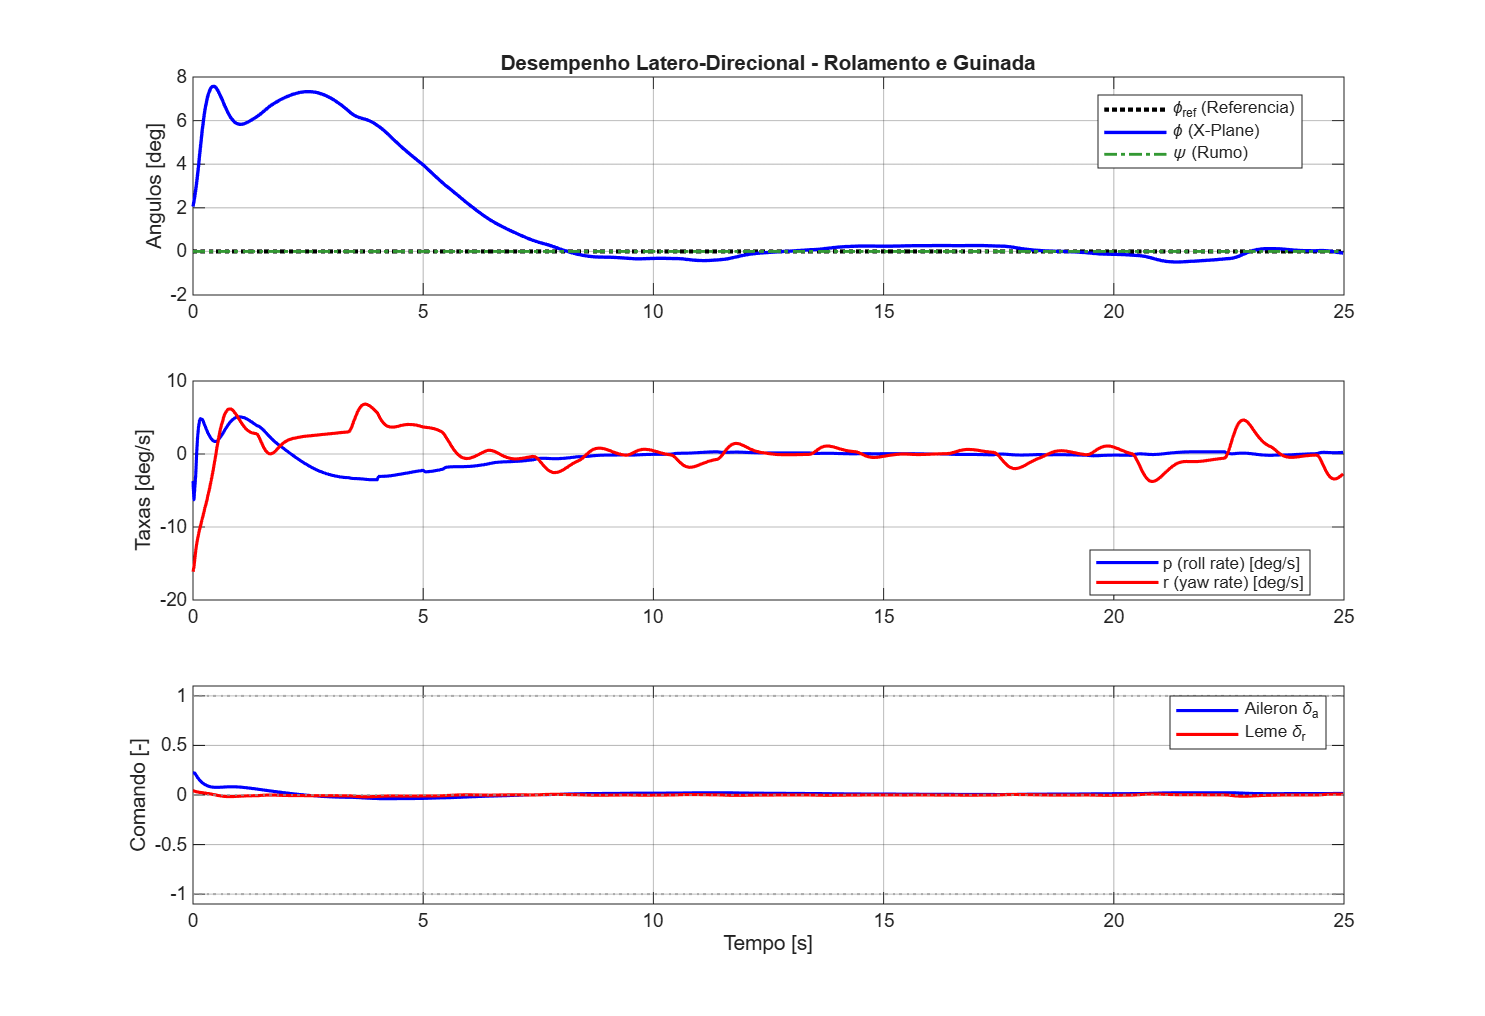
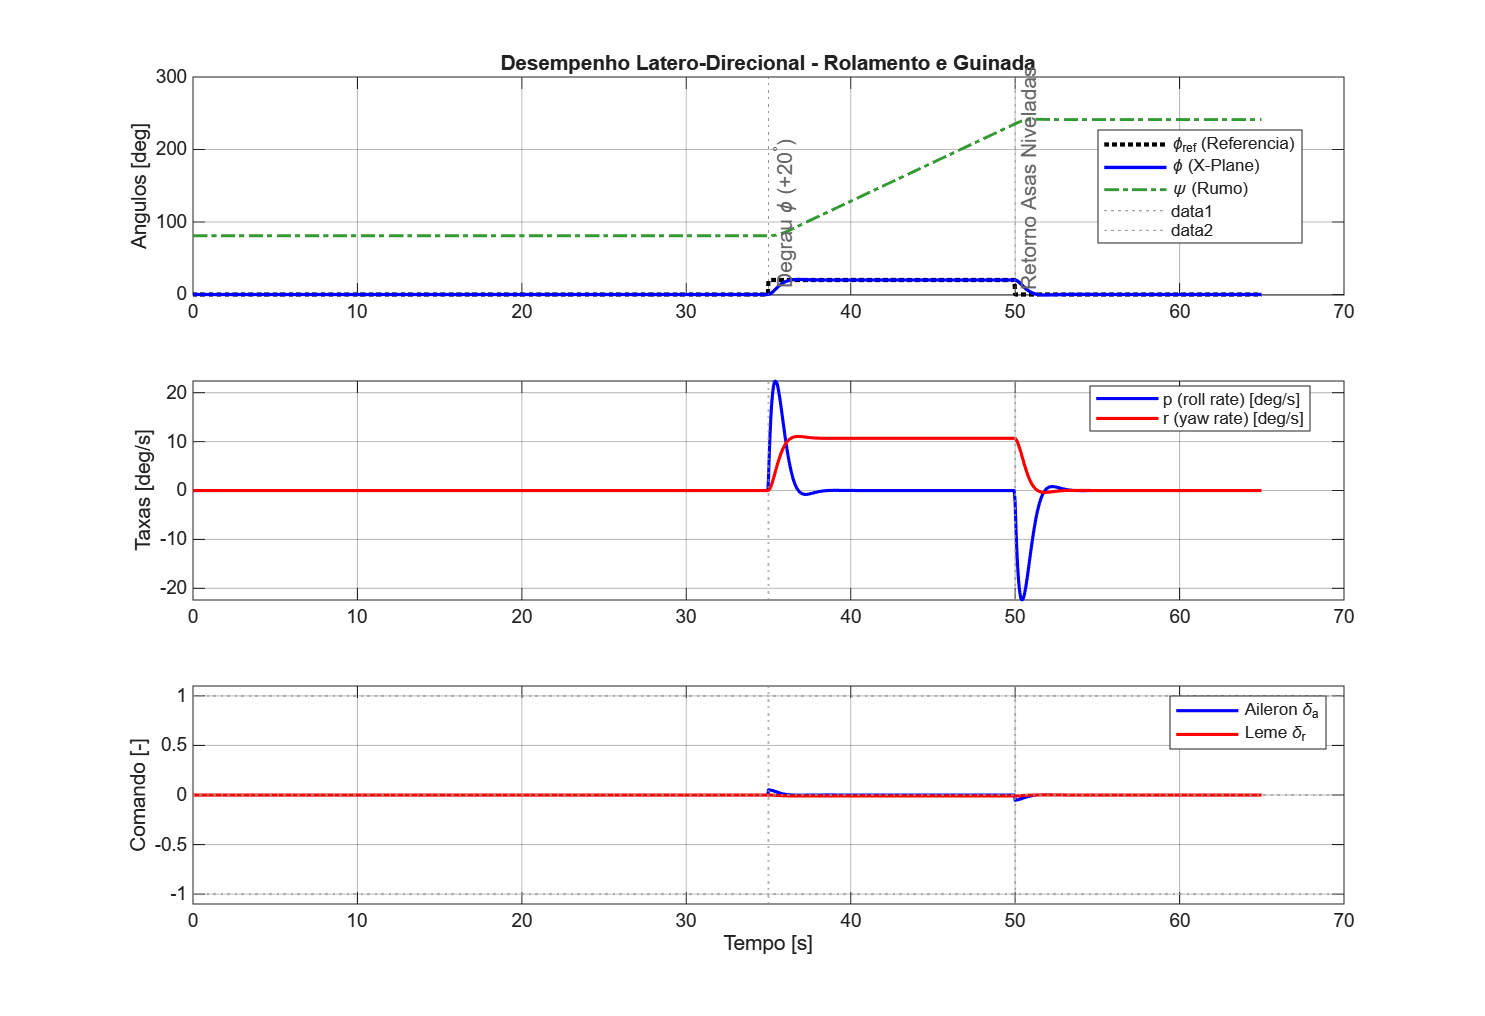
feat(scenarios): add bateria_degraus multi-DoF scenario and 3-figure diagnostic plots

diff --git a/scripts_matlab/plot_desempenho.m b/scripts_matlab/plot_desempenho.m
@@ -1,4 +1,4 @@
-function plot_desempenho(csv_path_on, csv_path_off, pasta_figuras)
+function plot_desempenho(csv_path_on, csv_path_off, pasta_figuras, cenario_nome)
 % PLOT_DESEMPENHO - Gera gráficos de análise de desempenho do Piloto Automático HIL
 % EA-291 - Pilotos Automáticos de VANTs (ITA)
 % Instituto Tecnológico de Aeronáutica - PG-EAM
@@ -15,6 +15,9 @@ end
 if nargin < 3 || isempty(pasta_figuras)
     pasta_figuras = fullfile(fileparts(mfilename('fullpath')), '..', 'figures');
 end
+if nargin < 4
+    cenario_nome = '';
+end
 if ~exist(pasta_figuras, 'dir')
     mkdir(pasta_figuras);
 end
@@ -26,6 +29,12 @@ end
 data_on = readtable(csv_path_on);
 
 RAD2DEG = 57.29577951308232;
+
+% Detecção automática de cenário de degraus
+is_bateria_degraus = strcmp(cenario_nome, 'bateria_degraus') || ...
+                     strcmp(cenario_nome, 'degraus_sequenciais') || ...
+                     strcmp(cenario_nome, 'step_battery') || ...
+                     (max(data_on.time) >= 55.0 && any(data_on.ref_h > 110));
 
 % Configuração visual global para artigos/relatórios ITA
 set(0, 'defaultAxesFontSize', 10);
@@ -46,6 +55,12 @@ subplot(4, 1, 1);
 plot(data_on.time, data_on.ref_h, SPEC_REF, 'LineWidth', WIDTH_REF, 'DisplayName', 'h_{ref} (Referencia)');
 hold on;
 plot(data_on.time, data_on.h, 'b-', 'LineWidth', 1.6, 'DisplayName', 'h (X-Plane)');
+if is_bateria_degraus
+    xline(5.0, ':', '\Deltah (+15m)', 'Color', [0.4 0.4 0.4], 'LabelVerticalAlignment', 'bottom');
+    xline(20.0, ':', '\DeltaV_T (+3m/s)', 'Color', [0.4 0.4 0.4], 'LabelVerticalAlignment', 'bottom');
+    xline(35.0, ':', '\Delta\phi (+20^\circ)', 'Color', [0.4 0.4 0.4], 'LabelVerticalAlignment', 'bottom');
+    xline(50.0, ':', 'Retorno \phi', 'Color', [0.4 0.4 0.4], 'LabelVerticalAlignment', 'bottom');
+end
 grid on;
 ylabel('Altitude [m]');
 title('Desempenho Longitudinal - Rastreamento e Estabilidade');
@@ -56,6 +71,12 @@ subplot(4, 1, 2);
 plot(data_on.time, data_on.ref_VT, SPEC_REF, 'LineWidth', WIDTH_REF, 'DisplayName', 'V_{Tr} (Referencia)');
 hold on;
 plot(data_on.time, data_on.VT, 'b-', 'LineWidth', 1.6, 'DisplayName', 'V_T (X-Plane)');
+if is_bateria_degraus
+    xline(5.0, ':', 'Color', [0.6 0.6 0.6], 'LineWidth', 1.0, 'HandleVisibility', 'off');
+    xline(20.0, ':', 'Color', [0.6 0.6 0.6], 'LineWidth', 1.0, 'HandleVisibility', 'off');
+    xline(35.0, ':', 'Color', [0.6 0.6 0.6], 'LineWidth', 1.0, 'HandleVisibility', 'off');
+    xline(50.0, ':', 'Color', [0.6 0.6 0.6], 'LineWidth', 1.0, 'HandleVisibility', 'off');
+end
 grid on;
 ylabel('Velocidade [m/s]');
 legend('Location', 'best');
@@ -66,6 +87,12 @@ plot(data_on.time, data_on.ref_theta * RAD2DEG, SPEC_REF, 'LineWidth', WIDTH_REF
 hold on;
 plot(data_on.time, data_on.theta * RAD2DEG, 'b-', 'LineWidth', 1.6, 'DisplayName', '\theta (X-Plane)');
 plot(data_on.time, data_on.q * RAD2DEG, 'm--', 'LineWidth', 1.2, 'DisplayName', 'q [deg/s]');
+if is_bateria_degraus
+    xline(5.0, ':', 'Color', [0.6 0.6 0.6], 'LineWidth', 1.0, 'HandleVisibility', 'off');
+    xline(20.0, ':', 'Color', [0.6 0.6 0.6], 'LineWidth', 1.0, 'HandleVisibility', 'off');
+    xline(35.0, ':', 'Color', [0.6 0.6 0.6], 'LineWidth', 1.0, 'HandleVisibility', 'off');
+    xline(50.0, ':', 'Color', [0.6 0.6 0.6], 'LineWidth', 1.0, 'HandleVisibility', 'off');
+end
 grid on;
 ylabel('Arfagem [deg]');
 legend('Location', 'best');
@@ -78,6 +105,12 @@ plot(data_on.time, data_on.delta_T, 'Color', [0.85 0.33 0.1], 'LineWidth', 1.5, 
 yline(1.0, ':', 'Color', [0.6 0.6 0.6], 'LineWidth', 1.0, 'HandleVisibility', 'off');
 yline(-1.0, ':', 'Color', [0.6 0.6 0.6], 'LineWidth', 1.0, 'HandleVisibility', 'off');
 yline(0.0, ':', 'Color', [0.6 0.6 0.6], 'LineWidth', 1.0, 'HandleVisibility', 'off');
+if is_bateria_degraus
+    xline(5.0, ':', 'Color', [0.6 0.6 0.6], 'LineWidth', 1.0, 'HandleVisibility', 'off');
+    xline(20.0, ':', 'Color', [0.6 0.6 0.6], 'LineWidth', 1.0, 'HandleVisibility', 'off');
+    xline(35.0, ':', 'Color', [0.6 0.6 0.6], 'LineWidth', 1.0, 'HandleVisibility', 'off');
+    xline(50.0, ':', 'Color', [0.6 0.6 0.6], 'LineWidth', 1.0, 'HandleVisibility', 'off');
+end
 grid on;
 xlabel('Tempo [s]');
 ylabel('Comando [-]');
@@ -100,6 +133,10 @@ plot(data_on.time, data_on.ref_phi * RAD2DEG, SPEC_REF, 'LineWidth', WIDTH_REF, 
 hold on;
 plot(data_on.time, data_on.phi * RAD2DEG, 'b-', 'LineWidth', 1.6, 'DisplayName', '\phi (X-Plane)');
 plot(data_on.time, data_on.psi * RAD2DEG, 'Color', [0.2 0.6 0.2], 'LineStyle', '-.', 'LineWidth', 1.4, 'DisplayName', '\psi (Rumo)');
+if is_bateria_degraus
+    xline(35.0, ':', 'Degrau \phi (+20^\circ)', 'Color', [0.4 0.4 0.4], 'LabelVerticalAlignment', 'bottom');
+    xline(50.0, ':', 'Retorno Asas Niveladas', 'Color', [0.4 0.4 0.4], 'LabelVerticalAlignment', 'bottom');
+end
 grid on;
 ylabel('Angulos [deg]');
 title('Desempenho Latero-Direcional - Rolamento e Guinada');
@@ -110,6 +147,10 @@ subplot(3, 1, 2);
 plot(data_on.time, data_on.p * RAD2DEG, 'b-', 'LineWidth', 1.5, 'DisplayName', 'p (roll rate) [deg/s]');
 hold on;
 plot(data_on.time, data_on.r * RAD2DEG, 'r-', 'LineWidth', 1.5, 'DisplayName', 'r (yaw rate) [deg/s]');
+if is_bateria_degraus
+    xline(35.0, ':', 'Color', [0.6 0.6 0.6], 'LineWidth', 1.0, 'HandleVisibility', 'off');
+    xline(50.0, ':', 'Color', [0.6 0.6 0.6], 'LineWidth', 1.0, 'HandleVisibility', 'off');
+end
 grid on;
 ylabel('Taxas [deg/s]');
 legend('Location', 'best');
@@ -122,6 +163,10 @@ plot(data_on.time, data_on.delta_r, 'r-', 'LineWidth', 1.5, 'DisplayName', 'Leme
 yline(1.0, ':', 'Color', [0.6 0.6 0.6], 'LineWidth', 1.0, 'HandleVisibility', 'off');
 yline(-1.0, ':', 'Color', [0.6 0.6 0.6], 'LineWidth', 1.0, 'HandleVisibility', 'off');
 yline(0.0, ':', 'Color', [0.6 0.6 0.6], 'LineWidth', 1.0, 'HandleVisibility', 'off');
+if is_bateria_degraus
+    xline(35.0, ':', 'Color', [0.6 0.6 0.6], 'LineWidth', 1.0, 'HandleVisibility', 'off');
+    xline(50.0, ':', 'Color', [0.6 0.6 0.6], 'LineWidth', 1.0, 'HandleVisibility', 'off');
+end
 grid on;
 xlabel('Tempo [s]');
 ylabel('Comando [-]');
@@ -134,9 +179,10 @@ saveas(fig2, fig2_path);
 fprintf('[OK] Grafico latero-direcional salvo em: %s\n', fig2_path);
 
 %% =========================================================================
-%% FIGURA 3: Comparativo Feedforward (Adriano Bittar) - Se fornecido
+%% FIGURA 3: Comparativo Feedforward OU Diagnóstico HIL e Qualidade do Controle
 %% =========================================================================
 if ~isempty(csv_path_off) && exist(csv_path_off, 'file')
+    % Caso A: Comparativo FeedForward de Adriano Bittar (ON vs OFF)
     data_off = readtable(csv_path_off);
 
     fig3 = figure('Name', 'Comparativo Feedforward Bittar', 'Color', 'w', 'Position', [200, 200, 950, 750]);
@@ -177,6 +223,64 @@ if ~isempty(csv_path_off) && exist(csv_path_off, 'file')
     fig3_path = fullfile(pasta_figuras, 'fig3_comparativo_feedforward_bittar.png');
     saveas(fig3, fig3_path);
     fprintf('[OK] Grafico comparativo de Feedforward salvo em: %s\n', fig3_path);
+else
+    % Caso B: Diagnóstico HIL e Rastreamento / Resposta aos Degraus Multi-DoF
+    fig3 = figure('Name', 'Diagnostico HIL e Rastreamento Multi-DoF', 'Color', 'w', 'Position', [200, 200, 950, 750]);
+
+    % Subplot 1: Erros de Rastreamento (Altitude e Velocidade)
+    subplot(3, 1, 1);
+    err_h = data_on.ref_h - data_on.h;
+    err_vt = data_on.ref_VT - data_on.VT;
+    yyaxis left;
+    plot(data_on.time, err_h, 'b-', 'LineWidth', 1.5, 'DisplayName', 'e_h = h_{ref} - h [m]');
+    ylabel('Erro Altitude [m]');
+    grid on;
+    yyaxis right;
+    plot(data_on.time, err_vt, 'Color', [0.85 0.33 0.1], 'LineWidth', 1.5, 'DisplayName', 'e_{VT} = V_{T,ref} - V_T [m/s]');
+    ylabel('Erro Velocidade [m/s]');
+    title('Diagnostico HIL: Erros de Rastreamento em Regime Transitorio');
+    if is_bateria_degraus
+        xline(5.0, ':', '\Deltah (+15m)', 'Color', [0.4 0.4 0.4], 'LabelVerticalAlignment', 'bottom');
+        xline(20.0, ':', '\DeltaV_T (+3m/s)', 'Color', [0.4 0.4 0.4], 'LabelVerticalAlignment', 'bottom');
+        xline(35.0, ':', '\Delta\phi (+20^\circ)', 'Color', [0.4 0.4 0.4], 'LabelVerticalAlignment', 'bottom');
+        xline(50.0, ':', 'Retorno \phi', 'Color', [0.4 0.4 0.4], 'LabelVerticalAlignment', 'bottom');
+    end
+    legend('Location', 'best');
+
+    % Subplot 2: Erro de Rolamento e Acoplamento em Curva
+    subplot(3, 1, 2);
+    err_phi = (data_on.ref_phi - data_on.phi) * RAD2DEG;
+    plot(data_on.time, err_phi, 'Color', [0.49 0.18 0.56], 'LineWidth', 1.5, 'DisplayName', 'e_\phi = \phi_{ref} - \phi [deg]');
+    hold on;
+    yline(0.0, ':', 'Color', [0.6 0.6 0.6], 'LineWidth', 1.0, 'HandleVisibility', 'off');
+    if is_bateria_degraus
+        xline(5.0, ':', 'Color', [0.6 0.6 0.6], 'LineWidth', 1.0, 'HandleVisibility', 'off');
+        xline(20.0, ':', 'Color', [0.6 0.6 0.6], 'LineWidth', 1.0, 'HandleVisibility', 'off');
+        xline(35.0, ':', 'Color', [0.6 0.6 0.6], 'LineWidth', 1.0, 'HandleVisibility', 'off');
+        xline(50.0, ':', 'Color', [0.6 0.6 0.6], 'LineWidth', 1.0, 'HandleVisibility', 'off');
+    end
+    grid on;
+    ylabel('Erro Rolamento [deg]');
+    title('Erro de Atitude Latero-Direcional');
+    legend('Location', 'best');
+
+    % Subplot 3: Determinismo Temporal da Malha HIL (Taxa de Amostragem do ESP32)
+    subplot(3, 1, 3);
+    dt_ms = data_on.dt_loop * 1000;
+    plot(data_on.time, dt_ms, 'Color', [0.1 0.6 0.3], 'LineWidth', 1.2, 'DisplayName', 'dt_{ESP32} [ms]');
+    hold on;
+    yline(20.0, 'r--', 'Alvo: 20 ms (50 Hz)', 'LineWidth', 1.5);
+    grid on;
+    xlabel('Tempo [s]');
+    ylabel('Periodo [ms]');
+    ylim([max(0, min(dt_ms) - 5), max(30, max(dt_ms) + 5)]);
+    title('Determinismo Temporal da Malha HIL (Frequencia Alvo: 50 Hz)');
+    legend('Location', 'best');
+
+    % Salvar Figura 3
+    fig3_path = fullfile(pasta_figuras, 'fig3_diagnostico_rastreamento_hil.png');
+    saveas(fig3, fig3_path);
+    fprintf('[OK] Grafico de diagnostico e rastreamento salvo em: %s\n', fig3_path);
 end
 
 end

diff --git a/scripts_matlab/main.m b/scripts_matlab/main.m
@@ -132,6 +132,17 @@ switch cenario
         m_h = calcula_metricas(dados.time, dados.h, dados.ref_h, 'Altitude', 'm');
     case {'degrau_velocidade', 'speed_step'}
         m_vt = calcula_metricas(dados.time, dados.VT, dados.ref_VT, 'Velocidade VT', 'm/s');
+    case {'bateria_degraus', 'degraus_sequenciais', 'step_battery'}
+        fprintf('\n--- [METRICAS: BATERIA DE DEGRAUS MULTI-DOF] ---\n');
+        % 1) Degrau em Altitude (5s a 20s)
+        idx_h = dados.time >= 5.0 & dados.time < 20.0;
+        m_h = calcula_metricas(dados.time(idx_h), dados.h(idx_h), dados.ref_h(idx_h), 'Degrau Altitude (+15m)', 'm');
+        % 2) Degrau em Velocidade (20s a 35s)
+        idx_vt = dados.time >= 20.0 & dados.time < 35.0;
+        m_vt = calcula_metricas(dados.time(idx_vt), dados.VT(idx_vt), dados.ref_VT(idx_vt), 'Degrau Velocidade (+3m/s)', 'm/s');
+        % 3) Degrau em Rolamento (35s a 50s)
+        idx_phi = dados.time >= 35.0 & dados.time < 50.0;
+        m_phi = calcula_metricas(dados.time(idx_phi), dados.phi(idx_phi) * 57.3, dados.ref_phi(idx_phi) * 57.3, 'Degrau Rolamento (+20 deg)', 'deg');
     case {'curva_coordenada', 'comparativo_ff'}
         m_h = calcula_metricas(dados.time, dados.h, dados.ref_h, 'Altitude em Curva', 'm');
         m_vt = calcula_metricas(dados.time, dados.VT, dados.ref_VT, 'Velocidade em Curva', 'm/s');
@@ -139,7 +150,7 @@ end
 
 %% 5) Geração Automática dos Gráficos
 fprintf('\n-> Gerando graficos de desempenho em figures/...\n');
-plot_desempenho(log_principal, log_secundario, figures_dir);
+plot_desempenho(log_principal, log_secundario, figures_dir, cenario);
 
 fprintf('\n=================================================================\n');
 fprintf('   Ensaio HIL Concluído com Sucesso!                           \n');

diff --git a/bridge_hil/scenarios.py b/bridge_hil/scenarios.py
@@ -166,6 +166,38 @@ def get_references(scenario: str, t: float) -> ReferenceSignals:
         ref_theta = THETA0
         return ReferenceSignals(ref_h, ref_VT, ref_theta, ref_phi)
 
-    # 3.4) Equilíbrio Estacionário (Default)
+    # 3.4) Bateria de Degraus Sequenciais Multi-DoF (Altitude -> Velocidade -> Rolamento -> Retorno)
+    elif scen in ("bateria_degraus", "degraus_sequenciais", "step_battery", "degraus"):
+        ref_theta = THETA0
+
+        # Fase 0 (0 <= t < 5s): Trim nominal de voo reto nivelado (100m, 15m/s, 0 deg)
+        if t < 5.0:
+            ref_h = H0
+            ref_VT = VT0
+            ref_phi = 0.0
+        # Fase 1 (5 <= t < 20s): Degrau em Altitude (+15m -> 115m), velocidade nominal
+        elif 5.0 <= t < 20.0:
+            ref_h = H0 + 15.0
+            ref_VT = VT0
+            ref_phi = 0.0
+        # Fase 2 (20 <= t < 35s): Degrau em Velocidade (+3m/s -> 18m/s), mantendo 115m
+        elif 20.0 <= t < 35.0:
+            ref_h = H0 + 15.0
+            ref_VT = VT0 + 3.0
+            ref_phi = 0.0
+        # Fase 3 (35 <= t < 50s): Degrau em Rolamento (+20 deg), mantendo 115m e 18m/s (curva coordenada)
+        elif 35.0 <= t < 50.0:
+            ref_h = H0 + 15.0
+            ref_VT = VT0 + 3.0
+            ref_phi = 20.0 * DEG_TO_RAD
+        # Fase 4 (50 <= t <= 65s): Retorno a Asas Niveladas (0 deg), estabilizando em 115m e 18m/s
+        else:
+            ref_h = H0 + 15.0
+            ref_VT = VT0 + 3.0
+            ref_phi = 0.0
+
+        return ReferenceSignals(ref_h, ref_VT, ref_theta, ref_phi)
+
+    # 3.5) Equilíbrio Estacionário (Default)
     else:
         return ReferenceSignals(H0, VT0, THETA0, PHI0)

diff --git a/scripts_matlab/parameters.m b/scripts_matlab/parameters.m
@@ -32,6 +32,7 @@ end
 %   'modo_espiral'     -> Modo Espiral: Movimento lento de evolução de proa e rolamento (duracao: 35s)
 %
 % --- CENÁRIOS OPERACIONAIS E FEEDFORWARD ---
+%   'bateria_degraus'  -> Bateria Multi-DoF de Degraus Sequenciais (Alt -> Vel -> Roll -> Retorno) (duracao: 65s)
 %   'comparativo_ff'   -> Bateria dupla: Feedforward ON vs. OFF de Adriano Bittar (duracao: 25s)
 %   'curva_coordenada' -> Curva coordenada única com Feedforward ativo (duracao: 25s)
 %   'degrau_altitude'  -> Resposta a degrau de altitude (+20m aos 5s) (duracao: 25s)
@@ -44,6 +45,8 @@ end
 % Duração automática do ensaio conforme o cenário selecionado
 if ~exist('duracao', 'var') || isempty(duracao)
     switch cenario
+        case {'bateria_degraus', 'degraus_sequenciais', 'step_battery'}
+            duracao = 65.0;
         case {'periodo_curto', 'short_period'}
             duracao = 15.0;
         case {'fugoide', 'phugoid'}

diff --git a/bridge_hil/bridge_xplane_esp32.py b/bridge_hil/bridge_xplane_esp32.py
@@ -317,7 +317,8 @@ def main():
             "dutch_roll",
             "modo_espiral", "spiral_mode",
             "curva_coordenada", "comparativo_ff",
-            "degrau_altitude", "degrau_velocidade", "degrau_rolamento", "trim_livre"
+            "degrau_altitude", "degrau_velocidade", "degrau_rolamento", "trim_livre",
+            "bateria_degraus", "degraus_sequenciais", "step_battery"
         ],
         help="Cenario de teste para injetar referencias",
     )

diff --git a/README.md b/README.md
@@ -191,6 +191,7 @@ O sistema conta com geradores analíticos de estímulo em [`bridge_hil/scenarios
 | **Manobra Operacional** | `'degrau_velocidade'` | $25\text{ s}$ | **Degrau de Velocidade:** Resposta ao degrau puro de $+3\text{ m/s}$ aos $t = 5\text{ s}$ ($V_{T,\text{ref}} = 18\text{ m/s}$), avaliando resposta do autothrottle e variação de empuxo. |
 | **Manobra Operacional** | `'degrau_rolamento'` | $25\text{ s}$ | **Degrau de Rolamento:** Manobra de inclinação de asa pura $\phi_{\text{ref}} = +20^\circ$ aos $t = 5\text{ s}$ sem alteração nas referências longitudinais. |
 | **Manobra Operacional** | `'curva_coordenada'` | $25\text{ s}$ | **Curva Coordenada com Subida:** Manobra composta com inclinação de $\phi_{\text{ref}} = 25^\circ$ entre $5\text{ s} \le t < 20\text{ s}$ e rampa/degrau de subida $+15\text{ m}$ aos $t = 12\text{ s}$. |
+| **Bateria Multi-DoF** | `'bateria_degraus'` | $65\text{ s}$ | **Bateria de Degraus Sequenciais:** Simulação estendida partindo do trim em voo reto nivelado ($100\text{ m}, 15\text{ m/s}$) e aplicando degraus sequenciais em cada grau de liberdade: (1) Altitude $+15\text{ m}$ aos $5\text{ s}$; (2) Velocidade $+3\text{ m/s}$ aos $20\text{ s}$; (3) Rolamento $+20^\circ$ aos $35\text{ s}$; e (4) Retorno a asas niveladas aos $50\text{ s}$. |
 | **Bateria Comparativa** | `'comparativo_ff'` | $25\text{ s}$ | **Ensaio Duplo Feedforward ON vs. OFF:** Executa automaticamente a bateria sequencial comparativa para evidenciar os ganhos dos compensadores de Adriano Bittar. |
 | **Equilíbrio / Trim** | `'trim_livre'` | $25\text{ s}$ | **Voo Estacionário Trimado:** Voo reto nivelado com todas as referências no ponto de equilíbrio ($H_0 = 100\text{ m}, V_{T0} = 15\text{ m/s}, \theta_0 = -6.97^\circ, \phi_0 = 0^\circ$). |
 
